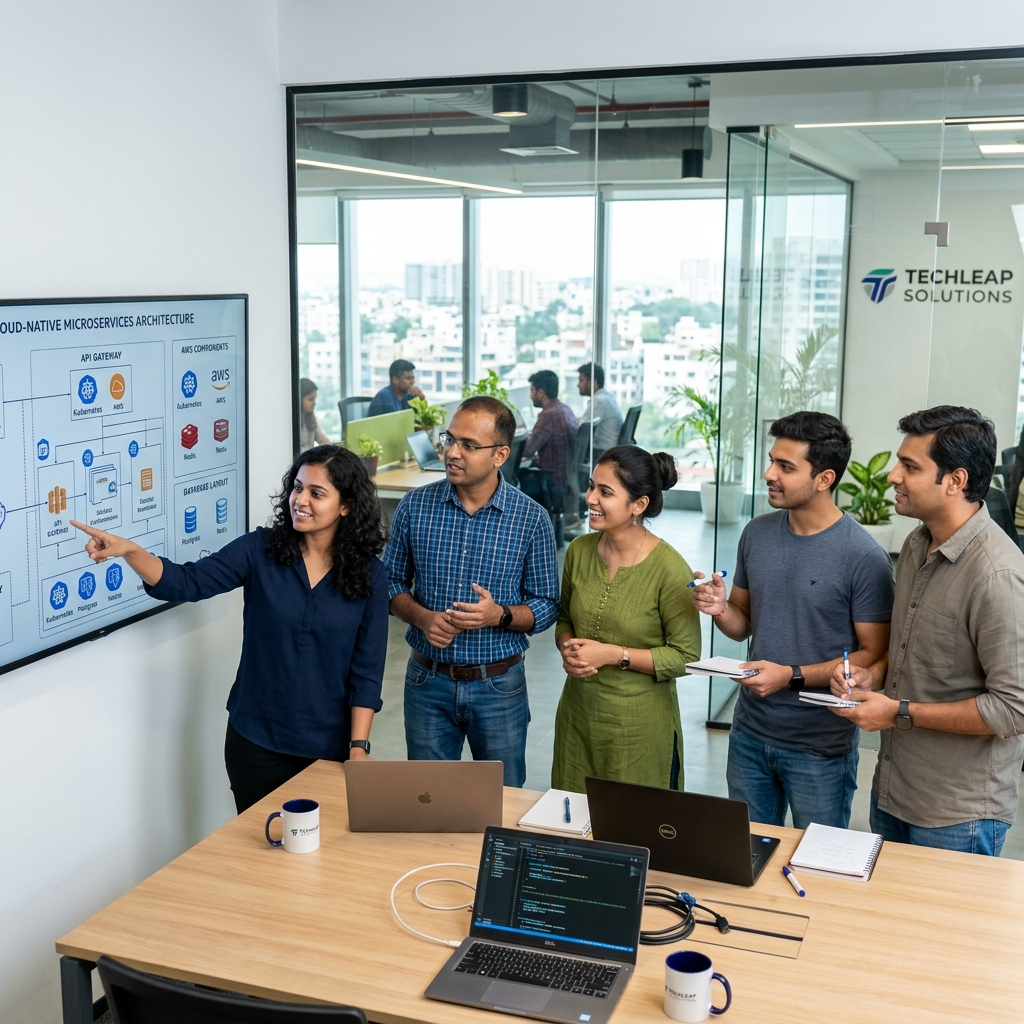
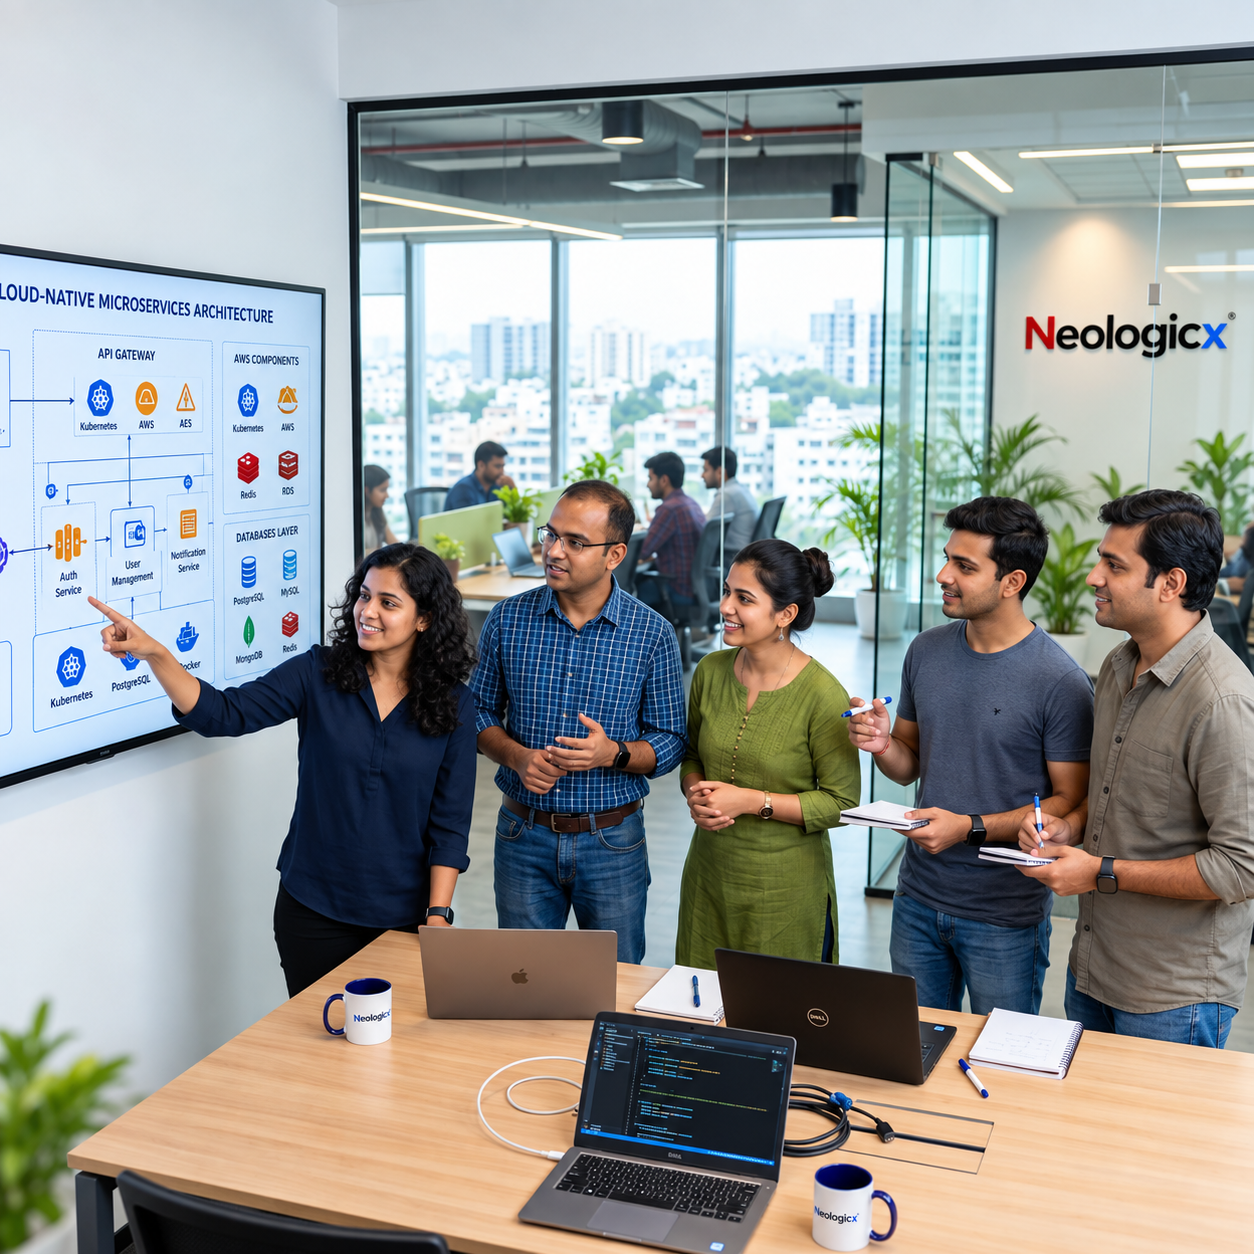
remove bikaner text

diff --git a/components/contact-client.tsx b/components/contact-client.tsx
@@ -28,22 +28,6 @@ const contactInfo = [
     color: 'text-green-500',
     bg: 'bg-green-500/10',
   },
-  {
-    icon: MapPin,
-    label: 'Visit Us',
-    value: 'Bikaner, Rajasthan, India',
-    href: '#',
-    color: 'text-red-500',
-    bg: 'bg-red-500/10',
-  },
-  {
-    icon: Clock,
-    label: 'Business Hours',
-    value: 'Mon – Sat, 10:00 AM – 7:00 PM IST',
-    href: '#',
-    color: 'text-amber-500',
-    bg: 'bg-amber-500/10',
-  },
 ];
 
 
@@ -191,7 +175,7 @@ export default function ContactClient() {
           initial={{ opacity: 0, y: 30 }}
           animate={{ opacity: 1, y: 0 }}
           transition={{ duration: 0.6, delay: 0.3 }}
-          className="grid grid-cols-1 sm:grid-cols-2 md:grid-cols-4 gap-4"
+          className="grid grid-cols-1 sm:grid-cols-2 gap-4 max-w-3xl mx-auto"
         >
           {contactInfo.map((info, idx) => (
             <a
@@ -488,8 +472,8 @@ export default function ContactClient() {
                 <h3 className="text-lg font-extrabold text-foreground">Direct Contact</h3>
               </div>
 
-              <p className="text-sm font-bold text-foreground mb-1">Neologicx Resources Pvt Ltd</p>
-              <p className="text-sm text-foreground mb-5">Bikaner, Rajasthan, India</p>
+              <p className="text-sm font-bold text-foreground mb-5">Neologicx Resources Pvt Ltd</p>
+              {/* <p className="text-sm text-foreground mb-5">Bikaner, Rajasthan, India</p> */}
 
               <div className="space-y-3">
                 <div className="flex items-start gap-3">

diff --git a/components/footer.tsx b/components/footer.tsx
@@ -66,9 +66,7 @@ export default function Footer() {
               Custom Software & Product Engineering • Established 2000
             </p>
 
-            <p className="text-sm text-muted-foreground mb-2">
-              Bikaner, Rajasthan, India
-            </p>
+
             <p className="text-sm text-muted-foreground mb-8 leading-relaxed">
               We help businesses transform and grow by engineering robust, scalable, and innovative software solutions tailored to your unique vision.
             </p>
@@ -119,8 +117,8 @@ export default function Footer() {
             </h4>
             <div className="flex flex-col gap-5">
               <div className="flex items-start gap-3 text-sm text-muted-foreground">
-                <MapPin className="w-5 h-5 mt-0.5 shrink-0 text-primary" />
-                <span className="leading-relaxed">Bikaner, Rajasthan, India</span>
+                <Phone className="w-5 h-5 mt-0.5 shrink-0 text-primary" />
+                <span className="leading-relaxed">+91 94141 38694 / +91 94141 38620</span>
               </div>
               <div className="flex items-center gap-3 text-sm text-muted-foreground mb-4">
                 <Mail className="w-5 h-5 shrink-0 text-primary" />
